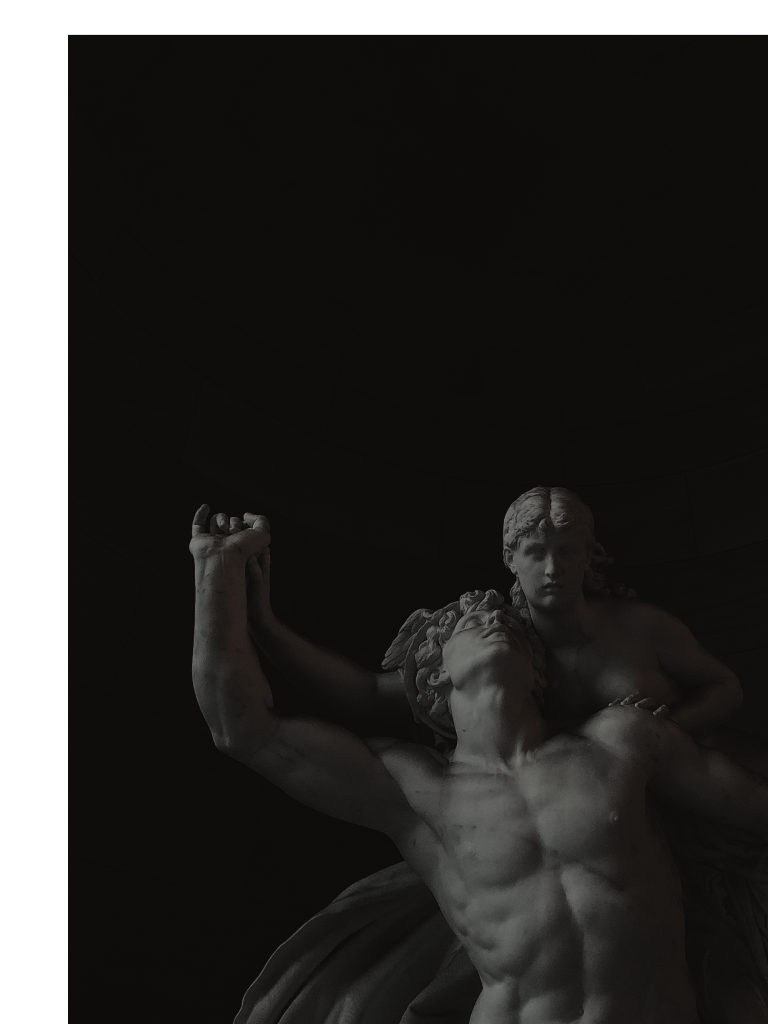
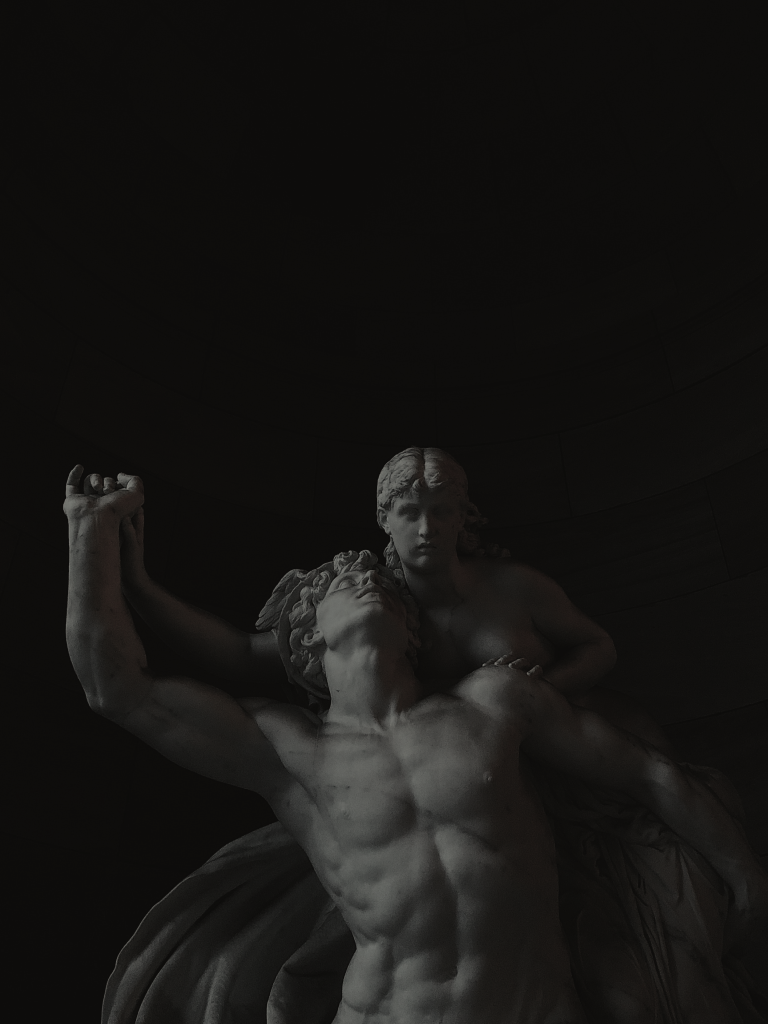
resizing background from home screen

diff --git a/src/pages/HomePage/style.css b/src/pages/HomePage/style.css
@@ -123,12 +123,41 @@
 }
 
 
-/* extra large devices */
-@media only screen and (min-width: 768px) {
+@media only screen and (max-width: 820px) {
   .main-title {
     text-align: center;
   }
+
+  .background {
+    display: none;
+  }
+
+  .image img {
+    background-image: url('./../../assets/versaoTablet/background.png');
+    background-size: cover;
+  }
 }
+
+@media only screen and (max-width: 400px) {
+  .navbar {
+    display: none;
+  }
+
+  .main-title {
+    font-size: 30px !important;
+    letter-spacing: 15px;
+  }
+
+  .background {
+    display: none;
+  }
+
+  .image img {
+    background-image: url('./../../assets/versaoMobile/background.png');
+    background-size: cover;
+  }
+}
+
 
 /* Móvel: 360 x 640
 Móvel: 375 x 667

diff --git a/src/pages/HomePage/index.js b/src/pages/HomePage/index.js
@@ -22,14 +22,14 @@ function Index(){
       </header>
 
       <section className="image">
-        <img src={HomeBackground} alt="background da home page" />
+        <img className="background" src={HomeBackground} alt="background da home page" />
         <div className="shadow-image"></div>
       </section>
 
       <section className="title">
         <h1 className="main-title animate__animated animate__fadeIn">TALITA AYA</h1>
         <div className="image">
-          <img className="animate__animated animate__fadeIn" src={BackgroundName} alt="nome background" />
+          <img id="name" className="animate__animated animate__fadeIn" src={BackgroundName} alt="nome background" />
         </div>
       </section>
 

diff --git a/src/pages/About/style.css b/src/pages/About/style.css
@@ -68,3 +68,18 @@
   border: #e0e0e091;
   color: #fff;
 }
+
+@media only screen and (max-width: 820px) {
+  .main-title {
+    text-align: center;
+    font-size: 70px;
+  }
+
+  .background {
+    display: none;
+  }
+
+  .image img {
+    background-image: url('./../../assets/versaoTablet/background.png');
+  }
+}
